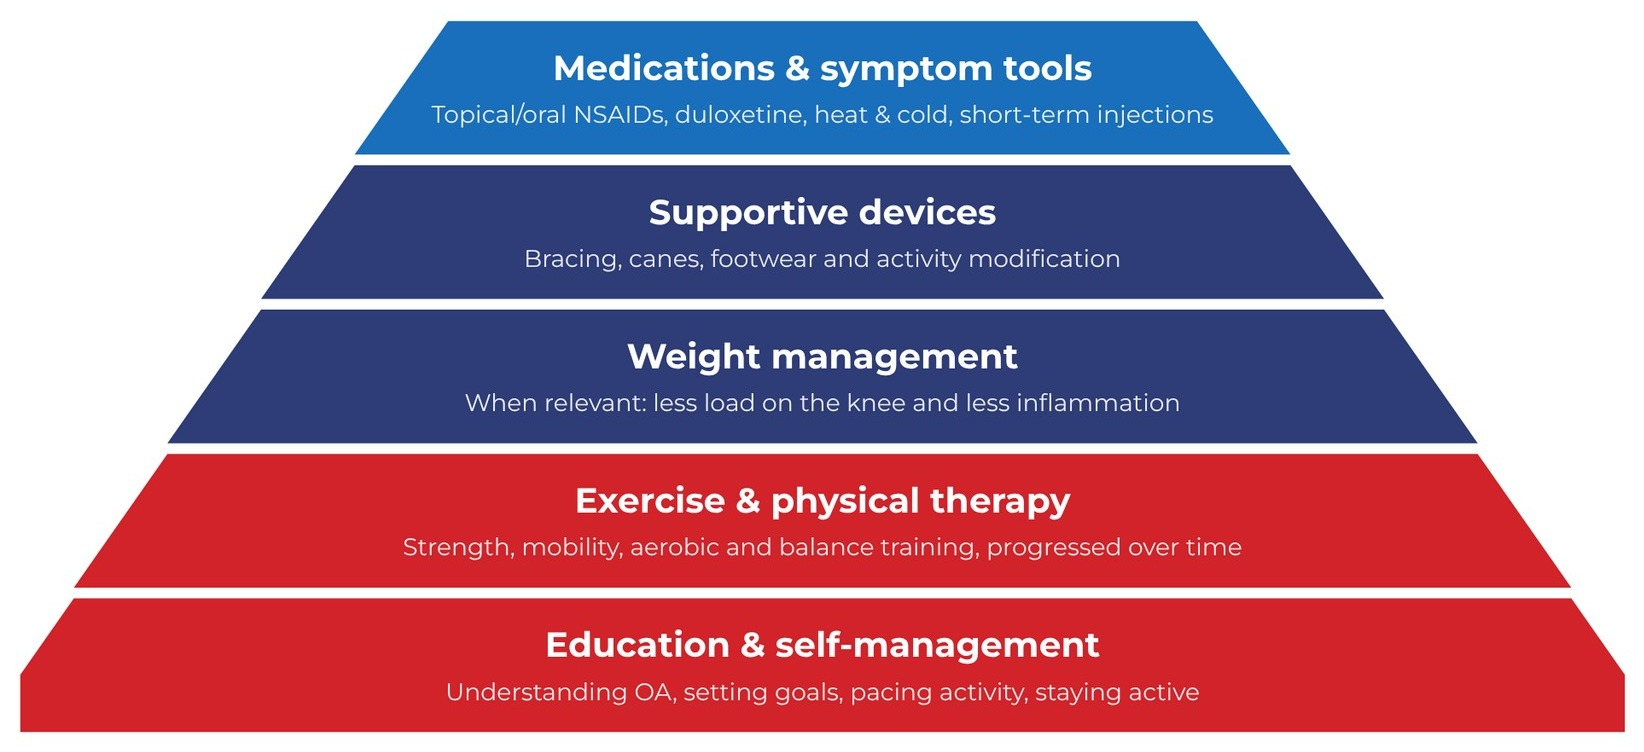
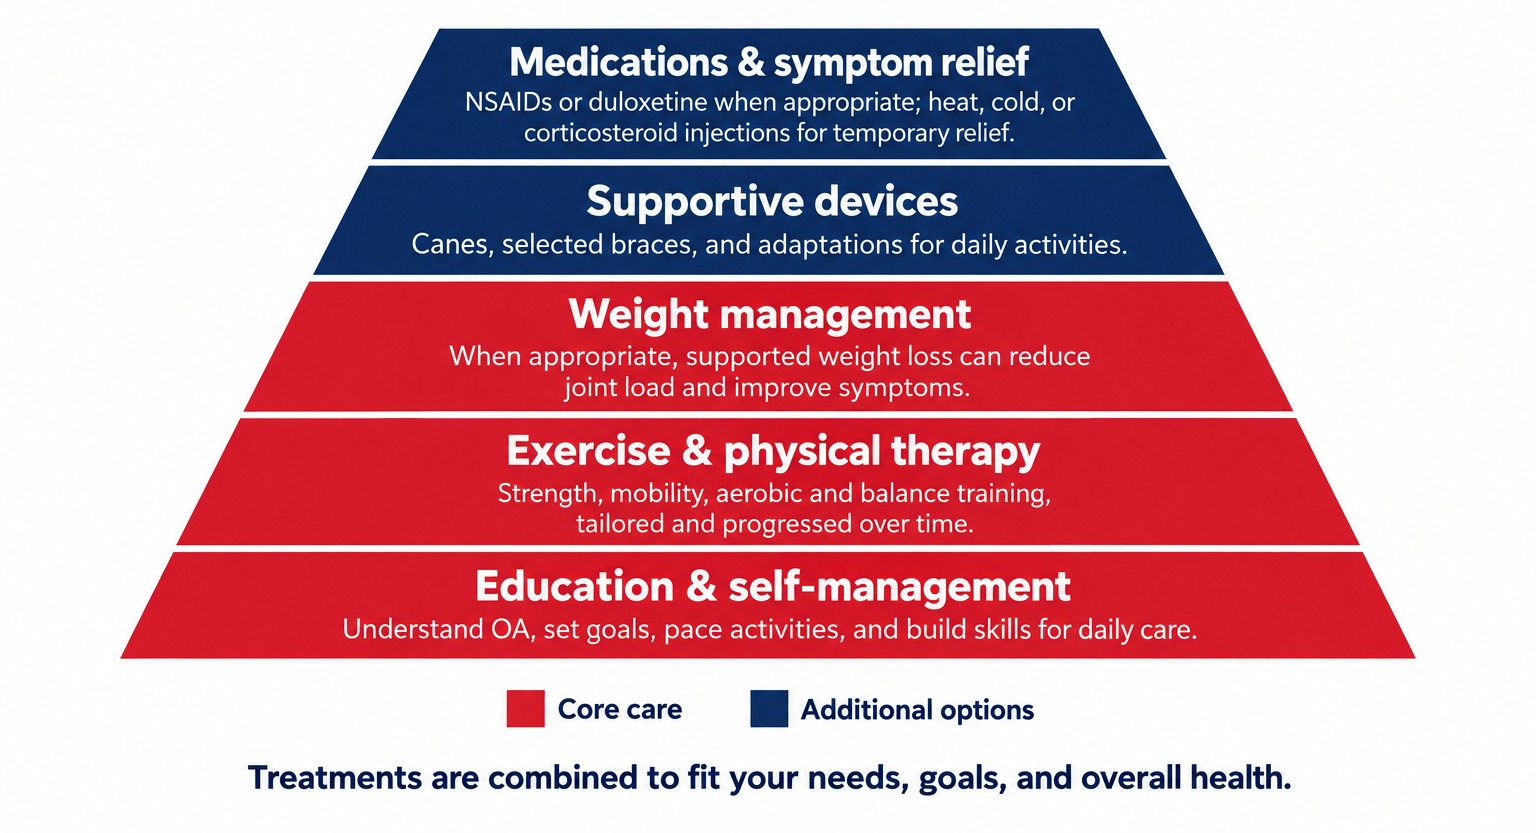
Flip J08a: new foundation of OA care illustration
Claude-Session: https://claude.ai/code/session_011FeJdRfmDCgTZcMtNMgwbg

diff --git a/js/templates.js b/js/templates.js
@@ -703,7 +703,7 @@ window.AJPVC_TEMPLATES = [
     "label": "J08a · Building the Foundation (patient side)",
     "w": 1056,
     "h": 816,
-    "html": "<div style=\"width: 1056px; height: 816px; box-sizing: border-box; background: #FFFEFB; color: #1B2440; font-family: 'Public Sans', sans-serif; display: flex; flex-direction: column; padding: 34px 44px 26px; gap: 20px\">\n<div style=\"display: flex; justify-content: space-between; align-items: flex-end; gap: 24px; border-bottom: 5px solid #C8231E; padding-bottom: 14px\">\n<div style=\"display: flex; flex-direction: column; gap: 4px\"><p style=\"margin: 0; font-family: 'Montserrat', sans-serif; font-weight: 700; font-size: 15px; letter-spacing: 3px; text-transform: uppercase; color: #C8231E\">Joint pain</p>\n<h1 style=\"margin: 0; font-family: 'Montserrat', sans-serif; font-weight: 800; font-size: 44px; line-height: 1.05; color: #16306E\">Building the Foundation</h1></div>\n<div style=\"display: flex; align-items: center; gap: 14px\"><img src=\"assets/logo-hvlc.png\" alt=\"Heart Vascular &amp; Leg Center logo\" style=\"height: 34px; width: 78px; object-fit: contain; object-position: left center\"><span style=\"width: 1px; height: 27px; background: #E2DED4\"></span><img src=\"assets/logo-long-nodivision.png\" alt=\"Advanced Joint Pain &amp; Vascular Center logo\" style=\"height: 34px; width: 129px; object-fit: contain; object-position: left center\"></div></div>\n<main style=\"flex: 1; min-height: 0; display: flex; flex-direction: column; gap: 16px\"><div style=\"flex: 1; min-height: 0; display: flex; flex-direction: column; gap: 10px\"><div style=\"flex: 1; min-height: 0; min-width: 0; background: #FFFFFF; border-radius: 18px; overflow: hidden; display: flex\"><img src=\"assets/book-foundation.jpg\" alt=\"Five-level pyramid with education and self-management at the base, then exercise and physical therapy, weight management, supportive devices, and medications and symptom tools at the top.\" style=\"width: 100%; height: 100%; object-fit: contain; object-position: 50% 50%; display: block\"></div></div><div style=\"display: flex; gap: 24px\"><div style=\"flex: 1; min-width: 0; display: flex; gap: 12px; align-items: flex-start; border-top: 4px solid #C8231E; padding-top: 12px\"><p style=\"margin: 0; font-size: 22px; line-height: 1.32; color: #1B2440\">Learning about OA and staying active is the base.</p></div><div style=\"flex: 1; min-width: 0; display: flex; gap: 12px; align-items: flex-start; border-top: 4px solid #C8231E; padding-top: 12px\"><p style=\"margin: 0; font-size: 22px; line-height: 1.32; color: #1B2440\">Exercise and physical therapy build strength and mobility.</p></div><div style=\"flex: 1; min-width: 0; display: flex; gap: 12px; align-items: flex-start; border-top: 4px solid #C8231E; padding-top: 12px\"><p style=\"margin: 0; font-size: 22px; line-height: 1.32; color: #1B2440\">Other treatments build on this base; they don’t replace it.</p></div></div></main></div>"
+    "html": "<div style=\"width: 1056px; height: 816px; box-sizing: border-box; background: #FFFEFB; color: #1B2440; font-family: 'Public Sans', sans-serif; display: flex; flex-direction: column; padding: 34px 44px 26px; gap: 20px\">\n<div style=\"display: flex; justify-content: space-between; align-items: flex-end; gap: 24px; border-bottom: 5px solid #C8231E; padding-bottom: 14px\">\n<div style=\"display: flex; flex-direction: column; gap: 4px\"><p style=\"margin: 0; font-family: 'Montserrat', sans-serif; font-weight: 700; font-size: 15px; letter-spacing: 3px; text-transform: uppercase; color: #C8231E\">Joint pain</p>\n<h1 style=\"margin: 0; font-family: 'Montserrat', sans-serif; font-weight: 800; font-size: 44px; line-height: 1.05; color: #16306E\">Building the Foundation</h1></div>\n<div style=\"display: flex; align-items: center; gap: 14px\"><img src=\"assets/logo-hvlc.png\" alt=\"Heart Vascular &amp; Leg Center logo\" style=\"height: 34px; width: 78px; object-fit: contain; object-position: left center\"><span style=\"width: 1px; height: 27px; background: #E2DED4\"></span><img src=\"assets/logo-long-nodivision.png\" alt=\"Advanced Joint Pain &amp; Vascular Center logo\" style=\"height: 34px; width: 129px; object-fit: contain; object-position: left center\"></div></div>\n<main style=\"flex: 1; min-height: 0; display: flex; flex-direction: column; gap: 16px\"><div style=\"flex: 1; min-height: 0; display: flex; flex-direction: column; gap: 10px\"><div style=\"flex: 1; min-height: 0; min-width: 0; background: #FFFFFF; border-radius: 18px; overflow: hidden; display: flex\"><img src=\"assets/book-foundation.jpg\" alt=\"Pyramid of osteoarthritis care: core care of education and self-management, exercise and physical therapy, and weight management at the base, with supportive devices and medications for symptom relief as additional options on top\" style=\"width: 100%; height: 100%; object-fit: contain; object-position: 50% 50%; display: block\"></div></div><div style=\"display: flex; gap: 24px\"><div style=\"flex: 1; min-width: 0; display: flex; gap: 12px; align-items: flex-start; border-top: 4px solid #C8231E; padding-top: 12px\"><p style=\"margin: 0; font-size: 22px; line-height: 1.32; color: #1B2440\">Learning about OA and staying active is the base.</p></div><div style=\"flex: 1; min-width: 0; display: flex; gap: 12px; align-items: flex-start; border-top: 4px solid #C8231E; padding-top: 12px\"><p style=\"margin: 0; font-size: 22px; line-height: 1.32; color: #1B2440\">Exercise and physical therapy build strength and mobility.</p></div><div style=\"flex: 1; min-width: 0; display: flex; gap: 12px; align-items: flex-start; border-top: 4px solid #C8231E; padding-top: 12px\"><p style=\"margin: 0; font-size: 22px; line-height: 1.32; color: #1B2440\">Other treatments build on this base; they don’t replace it.</p></div></div></main></div>"
    },
    {
     "label": "J08b · Building the Foundation (provider side)",

diff --git a/source/FlipJ08Foundation.dc.html b/source/FlipJ08Foundation.dc.html
@@ -18,7 +18,7 @@ body{margin:0}
 <div style="display: flex; flex-direction: column; gap: 4px"><p style="margin: 0; font-family: 'Montserrat', sans-serif; font-weight: 700; font-size: 15px; letter-spacing: 3px; text-transform: uppercase; color: #C8231E">Joint pain</p>
 <h1 style="margin: 0; font-family: 'Montserrat', sans-serif; font-weight: 800; font-size: 44px; line-height: 1.05; color: #16306E">Building the Foundation</h1></div>
 <div style="display: flex; align-items: center; gap: 14px"><img src="/_blob/1e4ce51a5c3cb793b6317890e43e495e" alt="Heart Vascular &amp; Leg Center logo" style="height: 34px; width: 78px; object-fit: contain; object-position: left center"><span style="width: 1px; height: 27px; background: #E2DED4"></span><img src="/_blob/48c0202744b17fe1f033a36586de7a92" alt="Advanced Joint Pain &amp; Vascular Center logo" style="height: 34px; width: 129px; object-fit: contain; object-position: left center"></div></div>
-<main style="flex: 1; min-height: 0; display: flex; flex-direction: column; gap: 16px"><div style="flex: 1; min-height: 0; display: flex; flex-direction: column; gap: 10px"><div style="flex: 1; min-height: 0; min-width: 0; background: #FFFFFF; border-radius: 18px; overflow: hidden; display: flex"><img src="/_blob/2a852f7d3ab1e6de57e2254e0e003b4b" alt="Five-level pyramid with education and self-management at the base, then exercise and physical therapy, weight management, supportive devices, and medications and symptom tools at the top." style="width: 100%; height: 100%; object-fit: contain; object-position: 50% 50%; display: block"></div></div><div style="display: flex; gap: 24px"><div style="flex: 1; min-width: 0; display: flex; gap: 12px; align-items: flex-start; border-top: 4px solid #C8231E; padding-top: 12px"><p style="margin: 0; font-size: 22px; line-height: 1.32; color: #1B2440">Learning about OA and staying active is the base.</p></div><div style="flex: 1; min-width: 0; display: flex; gap: 12px; align-items: flex-start; border-top: 4px solid #C8231E; padding-top: 12px"><p style="margin: 0; font-size: 22px; line-height: 1.32; color: #1B2440">Exercise and physical therapy build strength and mobility.</p></div><div style="flex: 1; min-width: 0; display: flex; gap: 12px; align-items: flex-start; border-top: 4px solid #C8231E; padding-top: 12px"><p style="margin: 0; font-size: 22px; line-height: 1.32; color: #1B2440">Other treatments build on this base; they don’t replace it.</p></div></div></main></div>
+<main style="flex: 1; min-height: 0; display: flex; flex-direction: column; gap: 16px"><div style="flex: 1; min-height: 0; display: flex; flex-direction: column; gap: 10px"><div style="flex: 1; min-height: 0; min-width: 0; background: #FFFFFF; border-radius: 18px; overflow: hidden; display: flex"><img src="/_blob/43f4a61c49afee78cb8d915826caeafe" alt="Pyramid of osteoarthritis care: core care of education and self-management, exercise and physical therapy, and weight management at the base, with supportive devices and medications for symptom relief as additional options on top" style="width: 100%; height: 100%; object-fit: contain; object-position: 50% 50%; display: block"></div></div><div style="display: flex; gap: 24px"><div style="flex: 1; min-width: 0; display: flex; gap: 12px; align-items: flex-start; border-top: 4px solid #C8231E; padding-top: 12px"><p style="margin: 0; font-size: 22px; line-height: 1.32; color: #1B2440">Learning about OA and staying active is the base.</p></div><div style="flex: 1; min-width: 0; display: flex; gap: 12px; align-items: flex-start; border-top: 4px solid #C8231E; padding-top: 12px"><p style="margin: 0; font-size: 22px; line-height: 1.32; color: #1B2440">Exercise and physical therapy build strength and mobility.</p></div><div style="flex: 1; min-width: 0; display: flex; gap: 12px; align-items: flex-start; border-top: 4px solid #C8231E; padding-top: 12px"><p style="margin: 0; font-size: 22px; line-height: 1.32; color: #1B2440">Other treatments build on this base; they don’t replace it.</p></div></div></main></div>
 </x-dc>
 <script type="text/x-dc" data-dc-script data-props='{"$preview":{"width":1056,"height":816}}'>
 class Component extends DCLogic {
